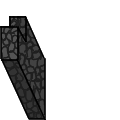
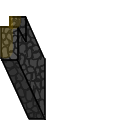
Save

Changed region(s): [[0.0, 0.125, 0.175, 0.5]]

diff --git a/Server/ServerSource/ServerCore/ServerWide/WorldGeneration/SubProcess/GenerateRoads.cpp b/Server/ServerSource/ServerCore/ServerWide/WorldGeneration/SubProcess/GenerateRoads.cpp
@@ -26,12 +26,57 @@ Point GenerateRoadSection(GenerateRoadSectionArgs args);
 void GenerateRoads(WorldArea* worldArea) {
     std::vector<Point> roadPath;
 // Start generating roads from top left corner of the world area.
-    auto coord = Point {0, 0};
+    auto coord = Point {1, 0};
 // Generate diagonal roads in south east direction.
     coord = GenerateRoadSection(
         {.worldArea = worldArea,
-         .startCoord = coord, .deltaStep = {1, 1},
-         .numSteps = 25,
+         .startCoord = coord, .deltaStep = {0, 1},
+         .numSteps = 6,
+         .roadPath = roadPath});
+    coord = GenerateRoadSection(
+        {.worldArea = worldArea,
+         .startCoord = coord, .deltaStep = {1, 0},
+         .numSteps = 5,
+         .roadPath = roadPath});
+    coord = GenerateRoadSection(
+        {.worldArea = worldArea,
+         .startCoord = coord, .deltaStep = {0, 1},
+         .numSteps = 5,
+         .roadPath = roadPath});
+    coord = GenerateRoadSection(
+        {.worldArea = worldArea,
+         .startCoord = coord, .deltaStep = {1, 0},
+         .numSteps = 5,
+         .roadPath = roadPath});
+    coord = GenerateRoadSection(
+        {.worldArea = worldArea,
+         .startCoord = coord, .deltaStep = {0, 1},
+         .numSteps = 5,
+         .roadPath = roadPath});
+    coord = GenerateRoadSection(
+        {.worldArea = worldArea,
+         .startCoord = coord, .deltaStep = {1, 0},
+         .numSteps = 5,
+         .roadPath = roadPath});
+    coord = GenerateRoadSection(
+        {.worldArea = worldArea,
+         .startCoord = coord, .deltaStep = {0, 1},
+         .numSteps = 5,
+         .roadPath = roadPath});
+    coord = GenerateRoadSection(
+        {.worldArea = worldArea,
+         .startCoord = coord, .deltaStep = {1, 0},
+         .numSteps = 5,
+         .roadPath = roadPath});
+    coord = GenerateRoadSection(
+        {.worldArea = worldArea,
+         .startCoord = coord, .deltaStep = {0, 1},
+         .numSteps = 5,
+         .roadPath = roadPath});
+    coord = GenerateRoadSection(
+        {.worldArea = worldArea,
+         .startCoord = coord, .deltaStep = {1, 0},
+         .numSteps = 5,
          .roadPath = roadPath});
 // Generate straight road to the east.
     coord = GenerateRoadSection(
@@ -55,7 +100,7 @@ void GenerateRoads(WorldArea* worldArea) {
     coord = GenerateRoadSection(
         {.worldArea = worldArea,
          .startCoord = coord, .deltaStep = {0, 1},
-         .numSteps = 25,
+         .numSteps = 24,
          .roadPath = roadPath});
     worldArea->m_roadPath = roadPath;
 }
@@ -83,6 +128,51 @@ Point GenerateRoadSection(GenerateRoadSectionArgs args) {
             tile->SetGround("GroundBridge");
         }
         tile->GetObjectsPile().Clear();
+        Tile* tileN = nullptr;
+        Tile* tileE = nullptr;
+        Tile* tileNE = nullptr;
+        if (coord.y > 0)
+            tileN = args.worldArea->GetTile(coord.x, coord.y-1);
+        if (coord.x < args.worldArea->GetSize().w - 1)
+            tileE = args.worldArea->GetTile(coord.x + 1, coord.y);
+        if (coord.y > 0 && coord.x < args.worldArea->GetSize().w - 1)
+            tileNE = args.worldArea->GetTile(coord.x + 1, coord.y - 1);
+        if (tileN) {
+            if (tileN->GetGround() == Hash("GroundGrass")) {
+                tileN->SetGround("GroundTrail");
+            }
+            else if (tileN->GetGround() == Hash("GroundCobbleStone")) {
+                tileN->SetGround("GroundSlabs");
+            }
+            else if (tileN->GetGround() == Hash("GroundWater")) {
+                tileN->SetGround("GroundBridge");
+            }
+            tileN->GetObjectsPile().Clear();
+        }
+        if (tileE) {
+            if (tileE->GetGround() == Hash("GroundGrass")) {
+                tileE->SetGround("GroundTrail");
+            }
+            else if (tileE->GetGround() == Hash("GroundCobbleStone")) {
+                tileE->SetGround("GroundSlabs");
+            }
+            else if (tileE->GetGround() == Hash("GroundWater")) {
+                tileE->SetGround("GroundBridge");
+            }
+            tileE->GetObjectsPile().Clear();
+        }
+        if (tileNE) {
+            if (tileNE->GetGround() == Hash("GroundGrass")) {
+                tileNE->SetGround("GroundTrail");
+            }
+            else if (tileNE->GetGround() == Hash("GroundCobbleStone")) {
+                tileNE->SetGround("GroundSlabs");
+            }
+            else if (tileNE->GetGround() == Hash("GroundWater")) {
+                tileNE->SetGround("GroundBridge");
+            }
+            tileNE->GetObjectsPile().Clear();
+        }
 // Move to next tile.
         coord += args.deltaStep;
     }

diff --git a/Server/ServerSource/Theme0/Scenes/Main/SubProcess/WorldView/SubProcess/RenderTileSymbols.cpp b/Server/ServerSource/Theme0/Scenes/Main/SubProcess/WorldView/SubProcess/RenderTileSymbols.cpp
@@ -11,10 +11,14 @@
 #include "ServerCore/ServerWide/EngineGet.hpp"
 
 namespace JoD {
+namespace {
+const Duration k_durationShowDestSymbol {Millis(200)};
+}
+
 void RenderTileSymbols(UserID userID, Point coord, BoxF tileBounds) {
 // Get main scene for the user.
     auto mainScene = _<EngineGet>().GetMainScene(userID);
-// Get player object for user.    
+// Get player object for user.
     const auto &player = _<EngineGet>().GetPlayer(userID);
 // Get tile hovering component.
     auto tileHovering =
@@ -25,7 +29,7 @@ void RenderTileSymbols(UserID userID, Point coord, BoxF tileBounds) {
 // Get hovered coordinate.
     auto hovCoord = tileHovering->GetHoveredCoord();
 // If proper hovered coordinate was obtained
-// and it equals the current coordinate.    
+// and it equals the current coordinate.
     if (hovCoord.has_value() && coord == hovCoord)
 // Draw hovered tile image.
         UserSendDrawImage(userID, "HoveredTile", tileBounds);
@@ -33,8 +37,11 @@ void RenderTileSymbols(UserID userID, Point coord, BoxF tileBounds) {
     auto destCoord = player->GetDestCoord();
 // If proper destination coordinate was obtained
 // and destination coordinate equals current coordinate.
-    if (destCoord.has_value() && coord == destCoord)
+    if (destCoord.has_value() && coord == destCoord) {
+        if (Now() < player->GetTimeSetDest() + k_durationShowDestSymbol){
 // Draw destination symbol on ground.
-        UserSendDrawImage(userID, "DestinationSymbol", tileBounds);
+            UserSendDrawImage(userID, "DestinationSymbol", tileBounds);
+        }
+    }
 }
 }

diff --git a/Server/ServerSource/Theme0/Scenes/Main/MainSceneGUI/InteractionMenu/GUIInteractionMenu.cpp b/Server/ServerSource/Theme0/Scenes/Main/MainSceneGUI/InteractionMenu/GUIInteractionMenu.cpp
@@ -21,6 +21,7 @@
 #include "Actions/ChopTreeAction.hpp"
 #include "Actions/ChopFelledTreeAction.hpp"
 #include "Actions/CreateWoodPlankAction.hpp"
+#include "Actions/PackGroundAction.hpp"
 
 namespace JoD {
 GUIInteractionMenu::GUIInteractionMenu()
@@ -56,6 +57,14 @@ void GUIInteractionMenu::UpdateDerived(UserID userID) {
         m_menuEntries.clear();
 // To count the number of entries added to the meny.
         auto menuEntryIndex = 0;
+        if (tile->GetObjectsPile().GetNumObjects() == 0) {
+            m_menuEntries.push_back(
+                {.label="Pack ground", .action = Actions::packGroundAction,
+                 .bounds = {m_position.x,
+                            m_position.y + menuEntryIndex*k_menuRowHeight,
+                            m_size.w, k_menuRowHeight}});
+            menuEntryIndex++;
+        }
 // Loop over all objects on tile to determine what actions to add to the menu.
         for (auto object : tile->GetObjectsPile().GetObjects()) {
 // If tile contains tree objects.

diff --git a/Server/ServerSource/ServerCore/ServerWide/WorldGeneration/SubProcess/GenerateHorseCarts.cpp b/Server/ServerSource/ServerCore/ServerWide/WorldGeneration/SubProcess/GenerateHorseCarts.cpp
@@ -22,10 +22,15 @@ void GenerateHorseCarts(WorldArea* worldArea) {
 // Dont consider tiles where x == 0, as there is no room for a cart then.
             if (x == 0) continue;
             auto tile = worldArea->GetTile(x,y);
+            bool coordInRoadPath = false;
+            for (auto p : worldArea->m_roadPath) {
+                if (p.x == x && p.y == y) {
+                    coordInRoadPath = true;
+                    break;
+                }
+            }
 // Check if current tile is of road type.
-            if (tile->GetGround() == Hash("GroundSlabs")
-                || tile->GetGround() == Hash("GroundTrail")
-                || tile->GetGround() == Hash("Bridge")) {
+            if (coordInRoadPath) {
 // Only create horse with an interval equal to horseCreationInterval.
                 if (tileStep % horseCreationInterval ==
                     tileStepOffset) {

diff --git a/Server/ServerSource/ServerCore/ServerWide/WorldGeneration/SubProcess/GenerateNPCs.cpp b/Server/ServerSource/ServerCore/ServerWide/WorldGeneration/SubProcess/GenerateNPCs.cpp
@@ -20,9 +20,14 @@ void GenerateNPCs(WorldArea* worldArea) {
         for (auto x = 0; x < worldArea->GetSize().w; x++){
             auto tile = worldArea->GetTile(x,y);
 // Check if current tile is of road type.
-            if (tile->GetGround() == Hash("GroundSlabs")
-                || tile->GetGround() == Hash("GroundTrail")
-                || tile->GetGround() == Hash("Bridge")) {
+            bool coordInRoadPath = false;
+            for (auto p : worldArea->m_roadPath) {
+                if (p.x == x && p.y == y) {
+                    coordInRoadPath = true;
+                    break;
+                }
+            }
+            if (coordInRoadPath) {
 // Only create NPC with an interval equal to npcCreationInterval.
                 if (tileStep % npcCreationInterval ==
                     tileStepOffset) {

diff --git a/Server/ServerSource/ServerCore/ServerWide/WorldGeneration/SubProcess/GenerateCastleYard.cpp b/Server/ServerSource/ServerCore/ServerWide/WorldGeneration/SubProcess/GenerateCastleYard.cpp
@@ -16,15 +16,18 @@ void GenerateCastleYard(WorldArea* worldArea) {
             auto tile = worldArea->GetTile(x, y);
             tile->SetGround("GroundCobbleStone");
             tile->SetElevation(0);
+            tile->GetObjectsPile().Clear();
+            if (rand() % 10 == 0)
+                tile->GetObjectsPile().AddObject("ObjectGrass");
         }
     }
 // Create castle walls to the east.
-    for (auto y = 0; y < 24; y++) {
+    for (auto y = 0; y < 25; y++) {
         auto tile = worldArea->GetTile(25, y);
         tile->GetObjectsPile().AddObject("ObjectCastleWallE");
     }
 // Create castle walls to the south.
-    for (auto x = 0; x < 24; x++) {
+    for (auto x = 0; x < 25; x++) {
         auto tile = worldArea->GetTile(x, 25);
         tile->GetObjectsPile().AddObject("ObjectCastleWallS");
     }

diff --git a/Server/ServerSource/Theme0/Scenes/Main/SubProcess/WorldView/SubProcess/RenderGround.cpp b/Server/ServerSource/Theme0/Scenes/Main/SubProcess/WorldView/SubProcess/RenderGround.cpp
@@ -10,7 +10,7 @@
 namespace JoD {
 void RenderGround(
     UserID userID, Tile* tile, BoxF tileBounds, Tile* tileW, Tile* tileN,
-    int playerElev) {
+    int playerElev, Point coord) {
 // Get elevation of tile.
     auto elev = tile->GetElevation();
 // Loop from the bottom up to elevation level.
@@ -36,8 +36,7 @@ void RenderGround(
     if (ground == Hash("GroundWater")) {
 // Calculate animation frame index based on time.
         auto animFrameIdx =
-            ((std::chrono::high_resolution_clock::now().
-              time_since_epoch().count()/1000000)%1200)/400;
+            (((Now().time_since_epoch().count()/1000000) + 6*coord.x*coord.y)%1200)/400;
 // Change the ground image hash code to an animated one.
         ground = Hash("GroundWater_" + std::to_string(animFrameIdx));
     }

diff --git a/Server/ServerSource/ServerCore/UserGameInstance/CoreGameObjects/Player.hpp b/Server/ServerSource/ServerCore/UserGameInstance/CoreGameObjects/Player.hpp
@@ -4,6 +4,7 @@
  */
 
 #pragma once
+#include "CommonAliases.hpp"
 #include "Directions.hpp"
 
 namespace JoD {
@@ -111,6 +112,14 @@ class Player {
         return m_maxHP;
     }
     
+    TimePoint GetTimeSetDest() const {
+        return m_timeSetDest;
+    }
+    
+    void SetTimeSetDest(TimePoint timeSetDest) {
+        m_timeSetDest = timeSetDest;
+    }
+    
   private:
     
 /// Tries to move the player to a specific coordinate. Will succeed
@@ -138,6 +147,7 @@ class Player {
 // Players current health points.
     int m_hp {10};                                   
 // Players maximum amount of health points.
-    int m_maxHP {10};                                
+    int m_maxHP {10};    
+    TimePoint m_timeSetDest {Now()};                            
 };
 }

diff --git a/Server/ServerSource/Theme0/Scenes/Main/MainSceneGUI/InteractionMenu/Actions/PackGroundAction.hpp b/Server/ServerSource/Theme0/Scenes/Main/MainSceneGUI/InteractionMenu/Actions/PackGroundAction.hpp
@@ -1,0 +1,25 @@
+/*
+ * ChopAction.hpp
+ * Copyright 2024 Andreas Åkerberg <zmallwood@proton.me>
+ */
+
+#pragma once
+
+#include "World.hpp"
+#include "WorldArea.hpp"
+#include "Tile.hpp"
+#include "ObjectsPile.hpp"
+
+namespace JoD {
+namespace Actions {
+auto packGroundAction =
+    [] (Point clickedCoord) {
+        auto tile =
+            _<World>().GetCurrWorldArea()->GetTile(
+                clickedCoord);
+        if (tile->GetObjectsPile().GetNumObjects() == 0) {
+            tile->SetGround("GroundTrail");
+        }
+    };
+}
+}

diff --git a/Server/ServerSource/Theme0/Scenes/Main/SubProcess/WorldView/WorldView.cpp b/Server/ServerSource/Theme0/Scenes/Main/SubProcess/WorldView/WorldView.cpp
@@ -75,7 +75,7 @@ void WorldView::Render(UserID userID) const {
 // Draw the ground surface.
             RenderGround(
                 userID, tile, groundBounds, tileW, tileN,
-                playerElev);
+                playerElev, {coordX, coordY});
             auto elev = tile->GetElevation();
 // Create bounds for tile, elevated to tile height.
             auto tileBounds = BoxF {

diff --git a/Server/ServerSource/ServerCore/ServerWide/WorldGeneration/GenerateNewWorld.cpp b/Server/ServerSource/ServerCore/ServerWide/WorldGeneration/GenerateNewWorld.cpp
@@ -24,8 +24,8 @@ void GenerateNewWorld() {
     GenerateWater(worldArea);
     GenerateElevation(worldArea);
     GenerateRock(worldArea);
-    GenerateCastleYard(worldArea);
     GenerateObjects(worldArea);
+    GenerateCastleYard(worldArea);
     GenerateRoads(worldArea);
     GenerateHorseCarts(worldArea);
     GenerateNPCs(worldArea);

diff --git a/Server/ServerSource/Theme0/Scenes/Main/SubProcess/MouseMovement.cpp b/Server/ServerSource/Theme0/Scenes/Main/SubProcess/MouseMovement.cpp
@@ -38,6 +38,7 @@ void MouseMovement::Update(UserID userID) {
     if (mouseDown && hovTile.has_value()) {
 // Set player destination to hovered tile coordinate.
         player->SetDestCoord(hovTile.value());
+        player->SetTimeSetDest(Now());
 // Clear any creature targeting.
         creaTarg->SetTargetedCreature(nullptr);
     }
